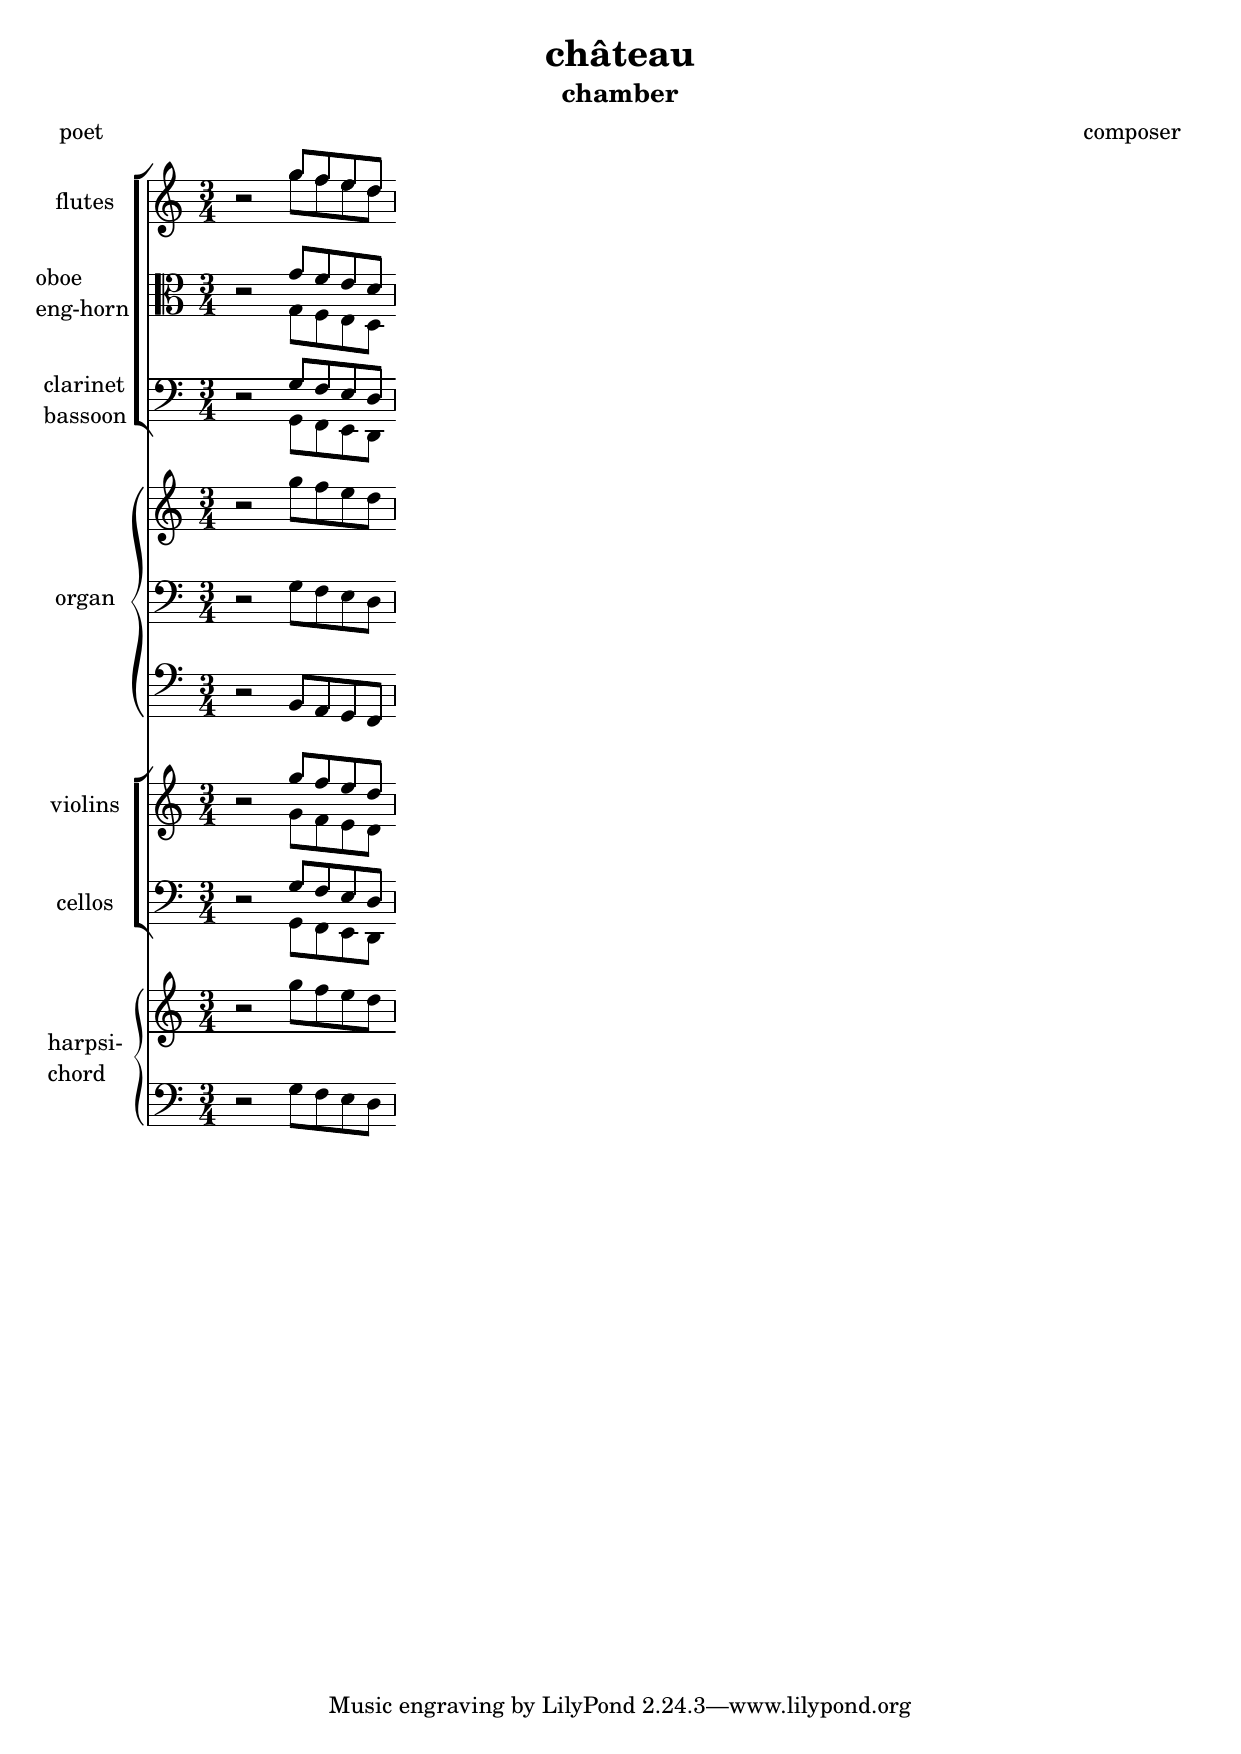
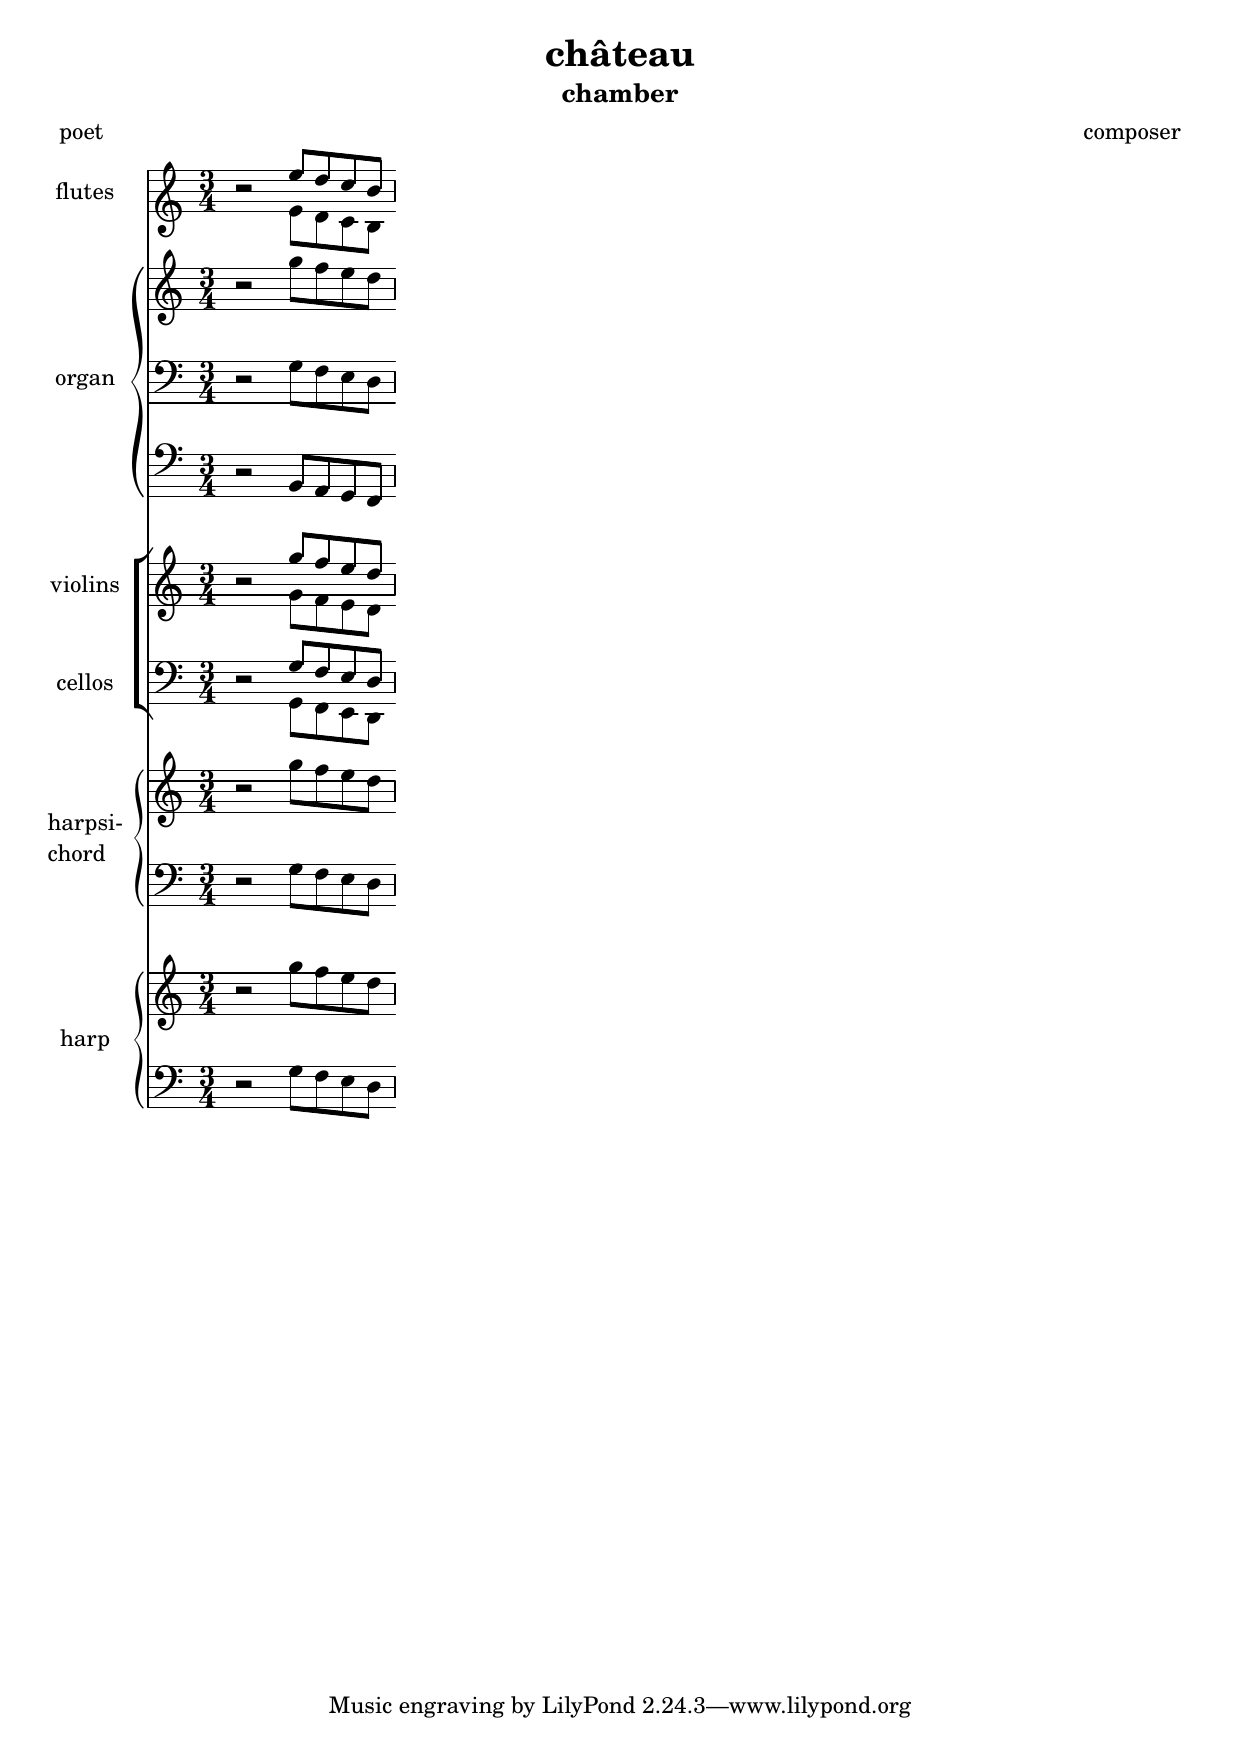
chateau : choirstaff

Changed region(s): [[0.0306, 0.0924, 0.3368, 0.6465], [0.1531, 0.0924, 0.2143, 0.1231]]

diff --git a/musica/template/chateau.html b/musica/template/chateau.html
@@ -3,7 +3,7 @@
 "http://www.w3.org/TR/xhtml1/DTD/xhtml1-strict.dtd">
 <html xmlns="http://www.w3.org/1999/xhtml" lang="en" xml:lang="en">
 <head>
-<!-- 2024-02-01 jeu 12:17 -->
+<!-- 2024-02-01 jeu 18:05 -->
 <meta http-equiv="Content-Type" content="text/html;charset=utf-8" />
 <meta name="viewport" content="width=device-width, initial-scale=1" />
 <title>Eclats de vers : Opus : Musica : template</title>
@@ -205,20 +205,20 @@
 <h2>Table of Contents</h2>
 <div id="text-table-of-contents" role="doc-toc">
 <ul>
-<li><a href="#orga5927bc">1. Château</a></li>
+<li><a href="#org46d1cb0">1. Château</a></li>
 </ul>
 </div>
 </div>
 
-<div id="outline-container-orga5927bc" class="outline-2">
-<h2 id="orga5927bc"><span class="section-number-2">1.</span> Château</h2>
+<div id="outline-container-org46d1cb0" class="outline-2">
+<h2 id="org46d1cb0"><span class="section-number-2">1.</span> Château</h2>
 <div class="outline-text-2" id="text-1">
 <p>
 Le résultat :
 </p>
 
 
-<div id="org34466b7" class="figure">
+<div id="org5417114" class="figure">
 <p><img src="../../image/musica/template/chateau.png" alt="chateau.png" />
 </p>
 </div>
@@ -2159,7 +2159,7 @@ staffDrums = \new DrumStaff \with {
 
 % choir quartet {{{2
 
-groupChoirQuartet = \new StaffGroup &lt;&lt;
+groupChoirQuartet = \new ChoirStaff &lt;&lt;
   % -- staff 1 : soprano &amp; alto
   \staffChoirQuartetSopranoAlto
   \new Lyrics \with { alignAboveContext = "choirQuartetSopranoAlto" }
@@ -2176,7 +2176,7 @@ groupChoirQuartet = \new StaffGroup &lt;&lt;
 
 % choir quintet {{{2
 
-groupChoirQuintet = \new StaffGroup &lt;&lt;
+groupChoirQuintet = \new ChoirStaff &lt;&lt;
   % -- staff 1 : soprano &amp; mezzo
   \staffChoirQuintetSopranoMezzo
   \new Lyrics \with { alignAboveContext = "choirQuintetSopranoMezzo" }
@@ -2197,7 +2197,7 @@ groupChoirQuintet = \new StaffGroup &lt;&lt;
 
 % choir sextet {{{2
 
-groupChoirSextet = \new StaffGroup &lt;&lt;
+groupChoirSextet = \new ChoirStaff &lt;&lt;
   % -- staff 1 : soprano &amp; mezzo
   \staffChoirSextetSopranoMezzo
   \new Lyrics \with { alignAboveContext = "choirSextetSopranoMezzo" }
@@ -2220,7 +2220,7 @@ groupChoirSextet = \new StaffGroup &lt;&lt;
 
 % choir septet {{{2
 
-groupChoirSeptet = \new StaffGroup &lt;&lt;
+groupChoirSeptet = \new ChoirStaff &lt;&lt;
   % -- staff 1 : soprano &amp; mezzo
   \staffChoirSeptetSopranoMezzo
   \new Lyrics \with { alignAboveContext = "choirSeptetSopranoMezzo" }
@@ -2426,8 +2426,8 @@ groupGuitars = \new StaffGroup
       %\groupChoirSeptet
       %\groupWoodQuartet
       %\groupWoodQuintet
-      \groupWoodSextet
-      %\staffFlutes
+      %\groupWoodSextet
+      \staffFlutes
       %\staffBassoons
       %\groupSaxophoneQuartet
       %\groupBrassQuartet
@@ -2440,7 +2440,7 @@ groupGuitars = \new StaffGroup
       %\groupStringSeptet
       \groupHarpsichord
       %\groupPiano
-      %\groupHarp
+      \groupHarp
       %\groupLutes
       %\groupGuitars
       %\staffVibraphone
@@ -2478,7 +2478,7 @@ groupGuitars = \new StaffGroup
 </div>
 <div id="postamble" class="status">
 <p class="author">Author: chimay</p>
-<p class="date">Created: 2024-02-01 jeu 12:17</p>
+<p class="date">Created: 2024-02-01 jeu 18:05</p>
 <p class="validation"><a href="https://validator.w3.org/check?uri=referer">Validate</a></p>
 </div>
 </body>
